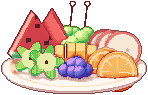
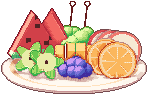
果盘：橙子片抬到盘面以上，正面视角不再从盘子底下漏出一块

Changed region(s): [[0.5676, 0.4, 0.973, 0.8421], [0.7568, 0.8632, 0.9189, 0.9684], [0.9189, 0.4632, 0.9459, 0.4842]]

diff --git a/scripts/px_tabletop.py b/scripts/px_tabletop.py
@@ -633,7 +633,8 @@ def fruitbowl(s, R, T):
     # 橙子片：两片半圆立着，一前一后
     for i, (r, t) in enumerate(((1.0, 0.4), (1.35, 0.75))):
         g = "orange%d" % i
-        s.add(aim(cylinder(0.62, 0.12), T - R * 0.2 + np.array([0, 0.15, 0])).at(*P(r, t, 0.28)), orange, g)
+        # 中心抬到盘面以上：半径 0.58、中心 0.62，底边正好埋在盘沿里（再低正面视角会从盘子底下漏出来）
+        s.add(aim(cylinder(0.58, 0.12), T - R * 0.2 + np.array([0, 0.15, 0])).at(*P(r, t, 0.62)), orange, g)
 
         def seg(p):
             ang = np.arctan2(p[..., 2], p[..., 0])
